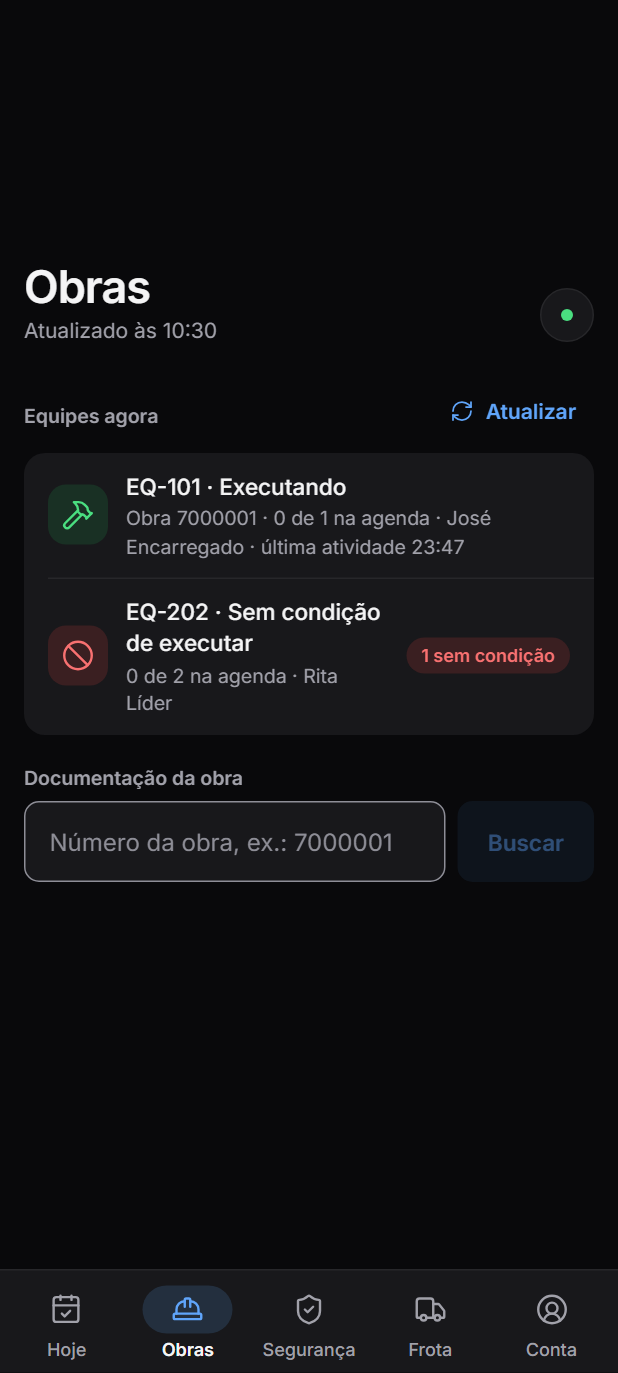
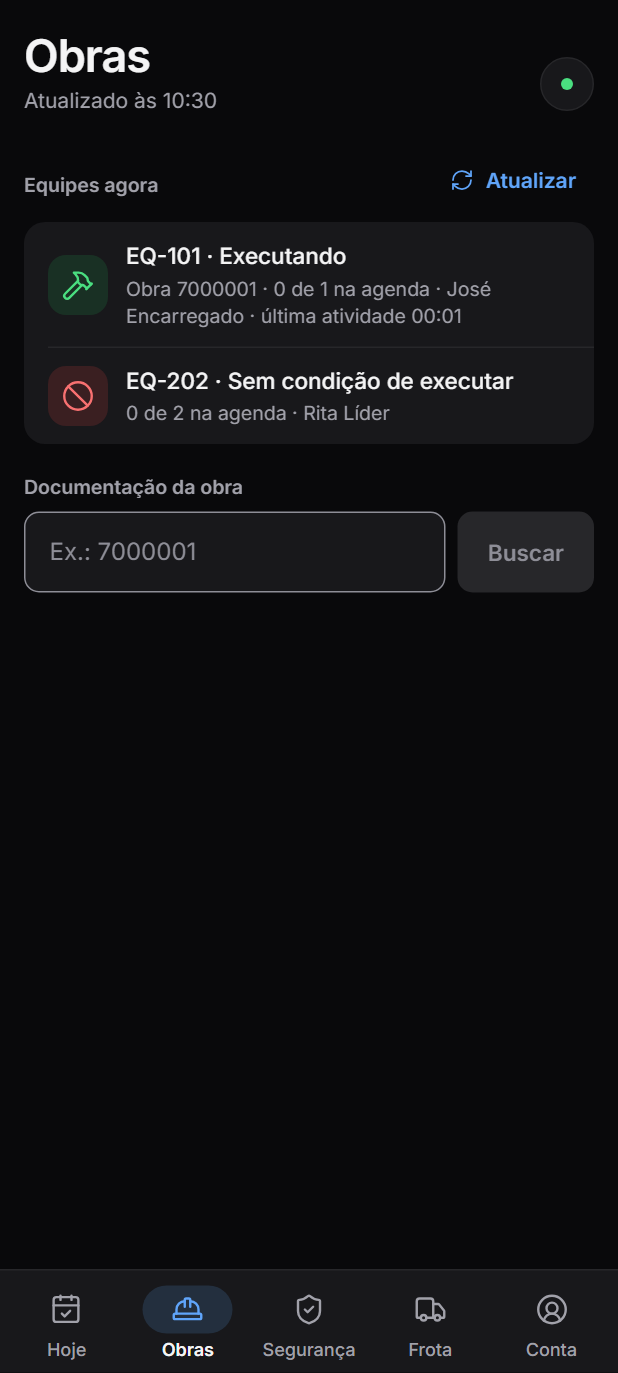
fix: correções da segunda revisão visual, teste independente do horário e relatório final
- Supervisor no tablet deitado: tela no topo (host em bloco), busca com campo
  largo, tonal desabilitado legível, sem etiqueta redundante "sem condição".
- CampoOfflineObrasTest usa o dia anterior (falhava rodando de madrugada).
- docs/redesign/mobile/RELATORIO-FINAL.md.

diff --git a/mobile/src/app/features/supervisao/supervisao.component.ts b/mobile/src/app/features/supervisao/supervisao.component.ts
@@ -32,7 +32,7 @@ import { ObraResumo, StatusEquipeObra, SupervisaoService } from '../../core/obra
               <span class="geo-linha__titulo">{{ e.codigo }} · {{ e.rotulo }}</span>
               <span class="geo-linha__apoio">{{ detalhe(e) }}</span>
             </span>
-            @if (e.aprsPendentes || e.ocorrenciasImpeditivas) {
+            @if (e.status !== 'IMPEDIDA' && (e.aprsPendentes || e.ocorrenciasImpeditivas)) {
               <span class="geo-etiqueta" [class.geo-etiqueta--erro]="e.ocorrenciasImpeditivas > 0" [class.geo-etiqueta--atencao]="!e.ocorrenciasImpeditivas">
                 {{ e.ocorrenciasImpeditivas ? e.ocorrenciasImpeditivas + ' sem condição' : e.aprsPendentes + ' APR pendente' }}</span>
             }
@@ -46,7 +46,7 @@ import { ObraResumo, StatusEquipeObra, SupervisaoService } from '../../core/obra
     </section><section>
     <h2 class="geo-secao">Documentação da obra</h2>
     <div class="buscar">
-      <input class="geo-input geo-num" inputmode="numeric" aria-label="Número da obra" [value]="busca()" (input)="busca.set($any($event.target).value)" (keyup.enter)="buscar()" placeholder="Número da obra, ex.: 7000001">
+      <input class="geo-input geo-num" inputmode="numeric" aria-label="Número da obra" [value]="busca()" (input)="busca.set($any($event.target).value)" (keyup.enter)="buscar()" placeholder="Ex.: 7000001">
       <button type="button" class="geo-btn geo-btn--tonal" (click)="buscar()" [disabled]="!busca().trim() || !rede.isOnline()">Buscar</button>
     </div>
     <ul class="geo-grupo">
@@ -61,10 +61,12 @@ import { ObraResumo, StatusEquipeObra, SupervisaoService } from '../../core/obra
     <div class="geo-respiro"></div>
   `,
   styles: [`
+    :host { display: block; }
     .colunas.duas { display: grid; grid-template-columns: minmax(0, 3fr) minmax(0, 2fr); column-gap: var(--geo-e5); align-items: start; }
     .aviso { margin: var(--geo-e3) var(--geo-margem) 0; font: var(--geo-t-apoio); color: var(--geo-texto-2); }
     .buscar { display: flex; gap: var(--geo-e2); align-items: center; padding: 0 var(--geo-margem) var(--geo-e2); }
-    .buscar .geo-btn { min-height: var(--geo-alvo-principal); }
+    .buscar .geo-input { flex: 1; }
+    .buscar .geo-btn { flex: none; min-height: var(--geo-alvo-principal); }
   `],
 })
 export class SupervisaoComponent implements OnInit {

diff --git a/mobile/src/styles/geo-base.scss b/mobile/src/styles/geo-base.scss
@@ -70,7 +70,7 @@ button, a, [role='button'], [role='tab'], .geo-tocavel {
   &--texto { background: transparent; color: var(--geo-destaque); padding: 0 var(--geo-e3); }
   &--perigo { background: var(--geo-erro-suave); color: var(--geo-erro); }
   // Desabilitado sem sumir (o perigo claro a 45% desaparecia no escuro).
-  &--perigo:disabled, &--principal:disabled { opacity: 1; background: var(--geo-superficie-2); color: var(--geo-texto-3); }
+  &--perigo:disabled, &--principal:disabled, &--tonal:disabled { opacity: 1; background: var(--geo-superficie-2); color: var(--geo-texto-3); }
   &--bloco { width: 100%; min-height: var(--geo-alvo-principal); font-size: 1rem; }
   &--compacto { position: relative; min-height: 40px; padding: 0 var(--geo-e3); font-size: .875rem; }
   // O visual é compacto, o alvo de toque não: a área se estende até 48 px.

diff --git a/backend/src/test/java/com/nexo/app/modules/obras/domain/CampoOfflineObrasTest.java b/backend/src/test/java/com/nexo/app/modules/obras/domain/CampoOfflineObrasTest.java
@@ -25,7 +25,8 @@ class CampoOfflineObrasTest {
     private static final UUID TURNO = UUID.randomUUID();
     private static final UUID PONTO = UUID.randomUUID();
     private static final UUID RESPONSAVEL = UUID.randomUUID();
-    private static final LocalDate HOJE = LocalDate.now(FUSO);
+    /** Ontem: "08:10 de hoje" ainda está no futuro quando o teste roda de madrugada. */
+    private static final LocalDate HOJE = LocalDate.now(FUSO).minusDays(1);
 
     private final KitConstrutivo catalogo = new KitConstrutivo(UUID.randomUUID(), "LMI-0168", "POSTE", "POSTE", Set.of());
     private final KitAplicado kit = KitAplicado.noPonto(OBRA, PONTO, catalogo, null, BigDecimal.ONE, List.of(

diff --git a/docs/redesign/mobile/PROMPT-PROXIMO-AGENTE.md b/docs/redesign/mobile/PROMPT-PROXIMO-AGENTE.md
@@ -1,0 +1,102 @@
+# Prompt para o próximo agente — finalizar o app de campo e Obras offline
+
+Você vai trabalhar **sozinho e sem parar** até concluir todas as frentes abaixo. O usuário saiu e espera encontrar tudo pronto,
+testado e commitado. Não peça confirmação: quando houver dúvida, tome a decisão mais simples que respeite as regras abaixo,
+registre-a no `design.md` da change correspondente (seção "Decisões") e siga. Só pare se algo for destrutivo/irreversível fora
+do repositório (deploy, push, banco remoto) — isso você **não** faz.
+
+## Onde você está
+- Monorepo `C:\Users\Thalisson\Documents\nexo`, branch **`feat/app-campo`** (commits locais, sem push). Último commit: `f96af328`.
+- Leia antes de tudo: `CLAUDE.md` e `AGENTS.md` da raiz, `backend/CLAUDE.md` + `backend/AGENTS.md`, `frontend/CLAUDE.md`,
+  `mobile/CLAUDE.md` (reescrito e atual), e as duas changes OpenSpec:
+  - `openspec/changes/identidade-visual-app-campo/` (redesign do app — frentes 0, 1 quase prontas)
+  - `openspec/changes/execucao-campo-obras/` (Obras 100% offline — nada implementado ainda)
+  Os `tasks.md` dizem o que está feito (`[x]`) e o que falta (`[ ]`). Marque cada tarefa ao concluir.
+- Plataforma Windows; shell Git Bash. **Atenção:** heredoc com aspas simples dentro de `python - <<'EOF'` às vezes quebra no
+  tool de shell — para scripts de edição maiores, grave o `.py` no scratchpad e rode `python arquivo.py`.
+
+## Decisões do usuário (não reabrir)
+- App de campo é **PWA** (sem Capacitor, sem loja). ~70% tablet (deitado e em pé), também celular; Android e iPhone.
+- **Só o encarregado** usa o app; participantes assinam a APR na tela dele. Equipes de Obras são separadas das comerciais.
+- O fluxo **comercial saiu do app** (notas, Serviços, meta) e o **pedido de material saiu do app**: a equipe de campo
+  **não solicita material** — ele vem da programação dos pontos ou de solicitação manual no web. O app mostra só o material
+  previsto e o que falta no caminhão. Não recrie nada disso.
+- Diretriz central: **facilitar tudo para a equipe de campo** — o app diz o próximo passo, pré-preenche o que o sistema sabe,
+  agrupa por ponto ("Tudo feito"), nunca trava por falta de rede; foto faltando **avisa e vira pendência, não bloqueia**.
+- No processo de Obras o web (supervisor/gestor) **só programa e analisa**; turno, APR, apontamento, ocorrência e relatório são
+  da equipe pelo app. Visita prévia, As Built e book: supervisor pelo web e pelo app.
+- Identidade visual do app = marca GEO do web em **escala de toque** (texto 15–16 px, alvos ≥ 48 px); tablet deitado usa barra
+  lateral e lista + detalhe (`geo-lista-detalhe`, `LayoutService`). Use os componentes de `mobile/src/app/ui/` (fotos com
+  carimbo, folha, seletor, segmentado, passos `.geo-passos`, interruptor `.geo-interruptor`, `ToastService.desfazer`,
+  estado de envio). Catálogo em `/catalogo`.
+- White label: nenhum nome/logo de empresa. Textos e identificadores em pt-BR. Bancos IndexedDB `ces-field-db` /
+  `ces-field-sessao`, travas entre abas e o host `ces-backend.railway.internal` mantêm o nome (`renomear-geo: manter`).
+
+## O que entregar (nesta ordem)
+
+### 1. Backend — frente A de `execucao-campo-obras` (Spring Boot, módulo `obras` + `sincronizacao` + IAM)
+A.1–A.9, A.11, A.12 do `tasks.md` (A.10 está riscada). Siga `backend/CLAUDE.md` (Rich Domain Model, Flyway na próxima versão
+livre — confira a maior `V*.sql` existente —, ProblemDetail, testes). Pontos-chave:
+- Comandos de campo com **id gerado no aparelho** e idempotência (mesmo id + mesmo conteúdo devolve o existente; conteúdo
+  diferente → 409/422 com ProblemDetail).
+- Liberação avaliada pela **data/hora de origem** do aparelho: APR → conclusão → apontamento enviados juntos à noite funcionam.
+- Comando **"ponto inteiro"**; chegada/saída na obra; GPS + precisão + hora do aparelho e do servidor nos registros.
+- `GET /v1/obras/campo/pacote?desde=` restrito à equipe do usuário (403 para outra equipe); PDFs por hash.
+- Tipos `OBRA_*` no envio durável com adaptadores e diagnóstico.
+- Endereço/referência na obra; horário e número da manobra na programação com desligamento (com campos no web).
+- Perfil "Equipe de Obras" com `obras:turno:write` e `obras:execucao:write`.
+- Testes: `cd backend && ./mvnw test -Dtest=...` dos testes novos e dos que você tocar; ao final da frente, `./mvnw test` completo.
+- Commit: `feat(obras): contrato offline de campo (...)`.
+
+### 2. App — frentes B, C, D de `execucao-campo-obras` (`mobile/`)
+Perfil/abas de Obras (Hoje, Obras, Material, Frota, Conta); tabelas offline (bump do `dbVersion` com migração Dexie);
+PDFs/fotos em OPFS com reserva em IndexedDB + `navigator.storage.persist()`; pacote automático e "Pronto para trabalhar sem
+sinal"; fila de Obras com ordem por obra e dependência APR → apontamento; **Hoje guiado**; abrir turno pré-preenchido;
+**ficha da obra** (endereço, "Como chegar" abrindo o app de navegação, programação, material previsto × saldo, anexos);
+chegada/saída; **APR em passos** com sugestões por condição, assinatura dos participantes e "Sem condição de executar";
+**execução sobre o projeto em PDF** (pontos coloridos, "Tudo feito", parcial, duas colunas no tablet com `geo-lista-detalhe`);
+**fotos do modelo com carimbo** e pendências; ocorrências (inclusive falta de material); obra não programada; As Built e
+equipamentos com leitura de série/QR; relatório diário montado; avisos de reprogramação (Web Push + ao abrir);
+telas do supervisor (visita prévia, As Built, book, acompanhamento das equipes).
+Mock da API em `mobile/e2e/support/mock-api.ts`: acrescente as rotas de Obras e escreva e2e para cada fluxo (turno → chegada
+→ APR → "Tudo feito" → fotos → relatório, **todo sem rede** e enviando uma única vez ao reconectar; conflito por programação
+cancelada; app morto no meio da APR volta ao mesmo passo).
+Commits por bloco (`feat(mobile): ...`).
+
+### 3. Web — frentes E e F (`frontend/`, consumindo só `@geo/ui`)
+Revisão de fotos (aprovar/reprovar com motivo, inconformidades, ranking por equipe, relatório detalhado só com aprovadas) e
+status em tempo real das equipes (cálculo no backend, exibição na central/dashboard de turnos). Siga as skills
+`primeng-enterprise-ui` e `erp-design-system`; listagens com `p-table` lazy + `PageResponse`. Testes específicos com
+`npx vitest run <arquivo>` (não rode `ds:check` nem `verify:design-system`: são pesados e o usuário pediu só testes do que mudou).
+
+### 4. Redesign — o que falta de `identidade-visual-app-campo`
+1.4/1.5 restantes (puxar para atualizar, ação por arrasto com alternativa visível), 1.8 (FAB na barra lateral no tablet
+deitado), 2.1, 2.3–2.6 (migrar Hoje, Conta, Material/saldo/transferências, Frota, Segurança, Almoxarifado e Encerramento para
+os componentes novos, sem mudar regras), 3.1 (lint que barra cor fixa/`!important` fora dos tokens), 3.2, 3.4.
+
+## Regras de qualidade (todas obrigatórias)
+- **Nada fica vermelho.** No app: `cd mobile && npm run build`, `npx ng test --watch=false` e a bateria e2e completa
+  `npx playwright test e2e/characterization e2e/piloto e2e/fase4 e2e/sw e2e/a11y e2e/visual` (Android e iOS) **verdes** antes
+  de cada commit que toque o app. Hoje passam 132 e 4 são pulados de propósito. Qualquer falha é regressão: ache a causa (os
+  últimos "flaky" eram defeito real ou teste mal montado), não aumente timeout às cegas.
+- Teste visual: depois de mudança visual revisada, `npx playwright test e2e/visual --update-snapshots`.
+- Toda mudança de UI termina com screenshots claro/escuro em celular, tablet em pé e deitado
+  (`ETAPA=<nome> npx playwright test e2e/support/redesign-shots.spec.ts --project=android` → `docs/redesign/mobile/<etapa>/`;
+  inclua as telas novas de Obras nesse roteiro) e revisão pelo subagente `ui-reviewer`; corrija bloqueantes e importantes.
+- Não coloque nada do fluxo comercial nem pedido de material nos testes ou capturas.
+- `openspec validate <change> --strict` deve passar; mantenha `tasks.md` e `design.md` atualizados.
+- Commits pequenos e frequentes em `feat/app-campo`, mensagens em pt-BR terminando com
+  `Co-Authored-By: Claude Opus 5.5 <noreply@anthropic.com>`. **Não faça push, deploy nem toque em bancos/serviços remotos.**
+- Ambiente local: o backend do Nexo roda na porta **8092** sobre o container **`nexo-db`** (nunca use `ces-db` nem outras
+  portas: são de outros checkouts da máquina — não os pare). Front em 4200. Login de teste USRADMIN pelo `backend/.env`.
+  Massa fictícia: obras 7000001 a 7000003, equipes `FIC-*`, programações #1 a #17. O backend roda com devtools: compilar
+  reinicia e aplica migrações novas no `nexo-db`.
+- Upload em teste: o `backend/.env` aponta para o bucket real do R2 — para fotos de teste, sobrescreva `R2_ENDPOINT`,
+  `R2_BUCKET` e as chaves com um MinIO descartável (`quay.io/minio/minio`) numa instância em outra porta. Nunca grave arquivo
+  de teste no bucket real.
+
+## Ao terminar
+Escreva `docs/redesign/mobile/RELATORIO-FINAL.md` com: o que foi entregue por frente (com commits), decisões tomadas sozinho,
+o que ficou de fora e por quê, resultado final dos testes (unitários, e2e app, testes do backend e do web) e os caminhos das
+capturas. Atualize `mobile/CLAUDE.md`, os `tasks.md` das duas changes e o roteiro do sistema (`docs/ROTEIRO_DE_USO_NEXO.md`:
+o app deixa de estar "em desenvolvimento" nas partes entregues).

diff --git a/docs/redesign/mobile/RELATORIO-FINAL.md b/docs/redesign/mobile/RELATORIO-FINAL.md
@@ -1,0 +1,103 @@
+# Relatório final — app de campo e Obras offline (20–21/11/2026)
+
+Branch `feat/app-campo`, só commits locais (sem push, deploy ou banco remoto).
+
+| Commit | O quê |
+|---|---|
+| `61a1eff7` | Backend: contrato offline de campo (frente A) + campos de endereço/desligamento no web |
+| `ddd34a4f` | Backend: revisão de fotos, status das equipes, fechamento do turno na hora do aparelho (E/F) |
+| `f1cdc890` | App: Obras offline (frentes B, C, D) |
+| `20cb8ba8` | Web: revisão de fotos e status das equipes no boletim (E/F) |
+| `779b9454` | App: componentes de toque que faltavam, lint de estilos, correções da revisão visual; capturas, OpenSpec e roteiro |
+
+## 1. Backend — frente A (`execucao-campo-obras`)
+
+- **Comandos de campo idempotentes** (APR, conclusão, ocorrência, atividade, apontamento, chegada/saída, evidência, relatório):
+  id do aparelho em `id_local` + `hash_campo`; reenvio igual devolve o registro; mesmo id com outro conteúdo → 409
+  `ID_LOCAL_REUTILIZADO`. Hora do aparelho, hora do servidor, GPS e precisão (`RegistroCampo`). Migração **V263**.
+- **Liberação no instante de origem**: APR das 08:10 libera o apontamento das 10:30 mesmo enviados juntos à noite; impedimento
+  da tarde não retroage. Conclusão vinda do app grava a hora do aparelho (nunca no futuro).
+- **"Ponto inteiro"** (`Programacao.apontarLocalInteiro`), **chegada/saída** (`PresencaObra`).
+- **Pacote** `GET /v1/obras/campo/pacote?desde=` (hoje + 7 dias, obras com endereço, projeto por hash, pontos, vãos, itens,
+  modelos de APR e de fotos, avisos; 403 para outra equipe) e `GET /v1/obras/campo/obras/{id}/projeto`.
+- **Envio durável `OBRA_*`** aplicado na hora pelo adaptador de Obras; recusa vira caso no backoffice com diagnóstico próprio
+  (`OBRA_SEM_APR`, `OBRA_PROGRAMACAO_ALTERADA`…) e o motivo volta ao app.
+- **Endereço/referência** na obra e **horário/manobra** do desligamento (backend + formulários do web, aviso de obra sem
+  localização ao programar).
+- **Perfil `EQUIPE_OBRAS`** (`obras:turno:read/write`, `obras:execucao:write`, `obras:campo:read`); abertura do turno com hora do
+  aparelho, líder e substitutos; fechamento com `dataFim`.
+- **Web Push** (VAPID + aes128gcm com o JDK, sem biblioteca nova): assinatura por aparelho, aviso a cada mudança de programação.
+  Desligado sem `PUSH_VAPID_PUBLICA/PRIVADA` (os avisos chegam pelo pacote ao abrir).
+
+Testado também contra o Postgres local (`nexo-db`): a V263 aplicou e o pacote respondeu com a massa fictícia.
+
+## 2. App — frentes B, C, D
+
+- Abas de Obras (Hoje, Obras, Material, Frota, Conta) e do supervisor (aba Obras).
+- Banco local v14; PDFs/fotos em OPFS com reserva no IndexedDB (ArrayBuffer); `storage.persist()`.
+- Pacote automático, "Pronto para trabalhar sem sinal", limpeza de obras que saíram da agenda.
+- Fila de Obras pelo envio durável, na ordem, apontamento dependente da APR, conflito com motivo e "Refazer".
+- Hoje guiado (próximo passo), turno de Obras sem sinal, ficha da obra (Como chegar, Cheguei/Saí, material previsto × saldo),
+  APR em passos com sugestões por condição e assinaturas, "Sem condição de executar", execução sobre o projeto (pontos
+  coloridos, Tudo feito, parcial, duas colunas no tablet), fotos do modelo com carimbo e pendências, série por QR,
+  ocorrências, obra não programada, relatório do dia montado, avisos (Web Push na Conta + ao abrir).
+- Supervisor: status das equipes agora, visita prévia pelo modelo de checklist, pedido de As Built e de book.
+- e2e novos (`e2e/fase4/obras.spec.ts`): dia inteiro sem sinal enviando uma vez só e na ordem; conflito por programação
+  cancelada; app morto no meio da APR volta no mesmo passo; aviso de cancelamento; supervisor.
+
+## 3. Web — frentes E e F
+
+- **Revisão de Fotos** (`Execução → Medição e Fechamento`): fila paginada (`geo-data-table` server), aprovar/reprovar com
+  inconformidade, ranking por equipe; reprovada volta como pendência no app; relatório detalhado só com aprovadas (V264).
+- **Status agora** das equipes no Boletim, calculado no servidor (`StatusOperacionalEquipe`, inatividade configurável).
+- E.1 (anexar foto a ponto pelo web) já existia.
+
+## 4. Redesign — `identidade-visual-app-campo`
+
+- 1.5: puxar para atualizar e ação por arrasto. 1.8: botão flutuante na barra lateral. 3.1: `npm run lint:estilos` (roda antes
+  do build). 3.4: `mobile/CLAUDE.md` atualizado. Toast sobe para o topo com folha aberta.
+
+## Decisões tomadas sozinho
+
+Registradas nos `design.md` das changes (seção "Decisões tomadas na implementação"). As principais: `id_local` em coluna
+própria; turno fora do hash; envio durável aplica na hora; hash do PDF = chave + tamanho; opções da APR servidas pelo pacote;
+Web Push sem dependência; série do equipamento na legenda da foto (a ficha As Built fica com o supervisor); obra não programada
+busca entre as obras do pacote; próximo passo começa no turno (o checklist é cobrado pela tela do turno); toast no topo com
+folha aberta; caixa de seleção na APR; tokens de papel/câmera.
+
+## O que ficou de fora, e por quê
+
+- **G.1 / 3.3 — teste em aparelho real** (tablet/celular Android, iPhone instalado): precisa de gente com os aparelhos.
+- **2.1, 2.3–2.6 — migração das telas existentes**: elas já usam as primitivas unificadas; faltam lista + detalhe no tablet
+  deitado (Transferências, Inspeções, Almoxarifado) e trocar o quadro de assinatura próprio da transferência pelo
+  `geo-assinatura`. Adiado para não mexer nas garantias de retomada, que usam a transferência como fluxo.
+- **3.2 — baselines visuais das telas novas**: as capturas foram geradas e revisadas, mas não entraram em `e2e/visual`.
+- **F.2 na central de operações/telemetria** e uso da posição da telemetria no cálculo do status.
+- **Artifact do roteiro** não foi republicado (a sessão não publica em serviço externo): republicar a partir do `.md`.
+- **Chaves VAPID**: gerar (`npx web-push generate-vapid-keys`) e configurar `PUSH_VAPID_*` no ambiente para ligar o push.
+
+## Resultado dos testes
+
+- **App**: build ok (com o lint de estilos); unitários **54/54 arquivos** verdes; e2e completo
+  (`characterization piloto fase4 sw a11y visual`, Android + iOS) **142 passaram, 4 pulados de propósito**, 0 falhas.
+  Observação: `e2e/piloto/retomada.spec.ts` ("abrir o detalhe e voltar mantém o mesmo item no topo") é instável no WebKit sob
+  carga da máquina — falhou 3 de 6 vezes **também no código-base** sem as mudanças desta sessão (as leituras do IndexedDB com
+  300 transferências chegam a 4 s no WebKit do Playwright no Windows). Não é regressão; passou na bateria final.
+- **Backend**: testes novos e tocados verdes (Campo*, PacoteCampoObras, SincronizacaoObras, WebPushService, RevisaoFoto,
+  StatusOperacionalEquipe, TurnoUseCases, ObraUseCases, Programacao, Liberacao, PermissoesObras). Suíte completa final:
+  **2.382 testes, 2.375 ok**. As falhas: 3 erros pré-existentes em `RenderizacaoAtaDocxServiceTest` (o `.docx` de referência
+  que o teste lê não está no repositório); 1 em `AbastecimentoAppUseCasesTest` (frota, não tocado; passa isolado — instável); 2
+  em `CampoOfflineObrasTest` causadas pela hora em que a suíte rodou (00:04, "08:10 de hoje" ainda no futuro) — teste corrigido
+  para usar o dia anterior, verde.
+- **Web**: build ok; `condicoes-programacao.component.spec`, `obra-form.component.spec`, `boletim-obra.logic.spec`,
+  `revisao-fotos.logic.spec` e os specs de programação verdes; capturas pelo `playwright.obras.config.ts` (8/8).
+
+## Capturas
+
+- App: `docs/redesign/mobile/obras/{celular,tablet-retrato,tablet-paisagem}/30…40-*-{claro,escuro}.png`
+  (`ETAPA=obras npx playwright test e2e/support/redesign-shots.spec.ts --project=android -g obras`).
+- Web: `docs/redesign/screenshots/obras-campo/*` (`npx playwright test -c playwright.obras.config.ts`).
+- Revisão do `ui-reviewer`: primeira passada reprovou com 3 bloqueantes (fotos sem margem/título, textarea, caixas da APR) e
+  vários importantes; todos corrigidos. Na segunda passada os 3 bloqueantes antigos foram confirmados
+  como resolvidos e apareceu 1 novo (tela do supervisor descida no tablet deitado), corrigido e recapturado; e2e visual, a11y e
+  Obras verdes depois disso.
